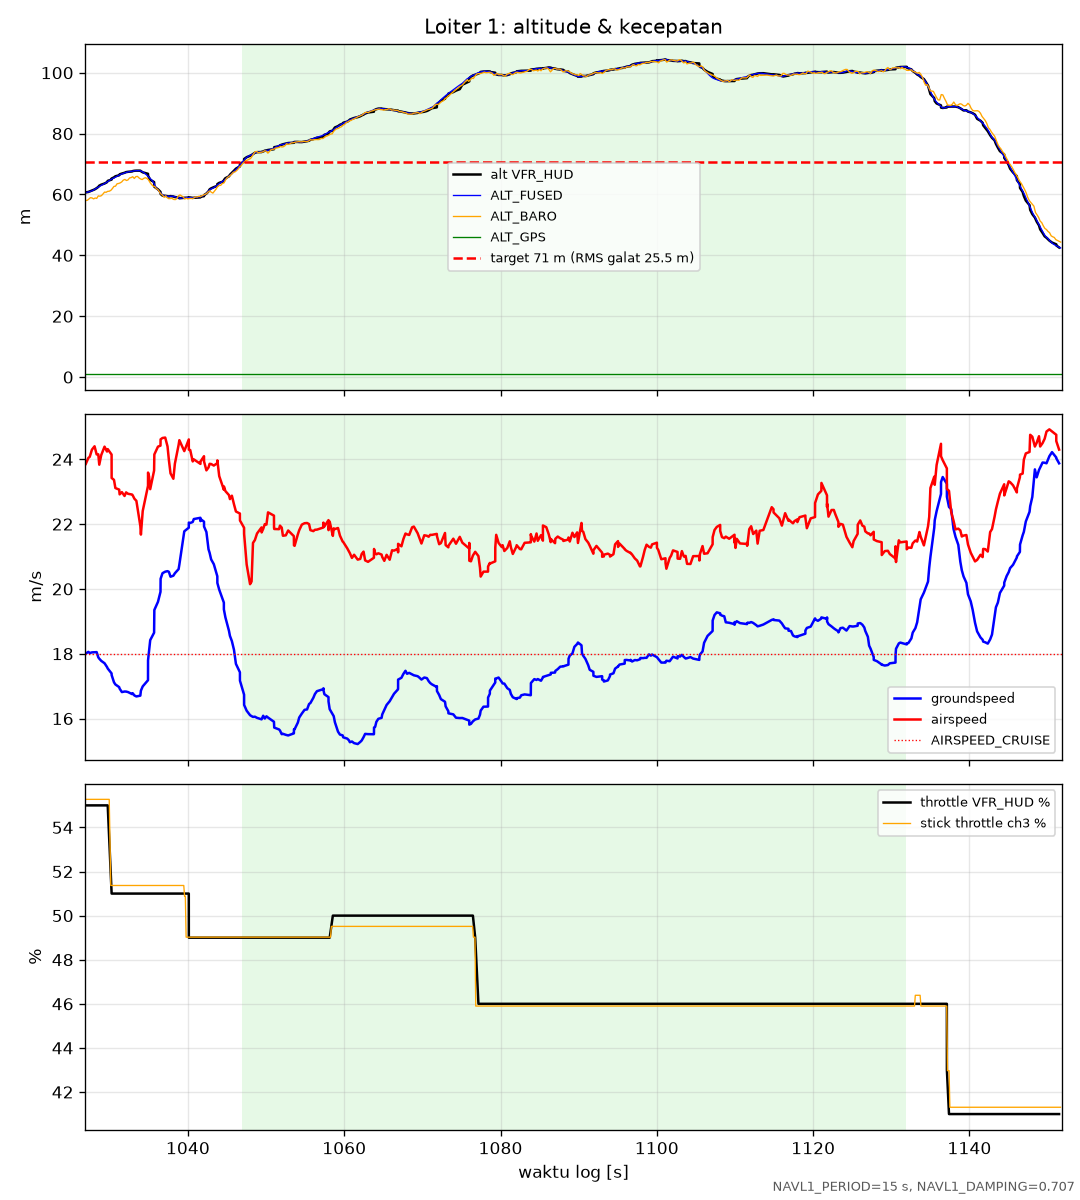
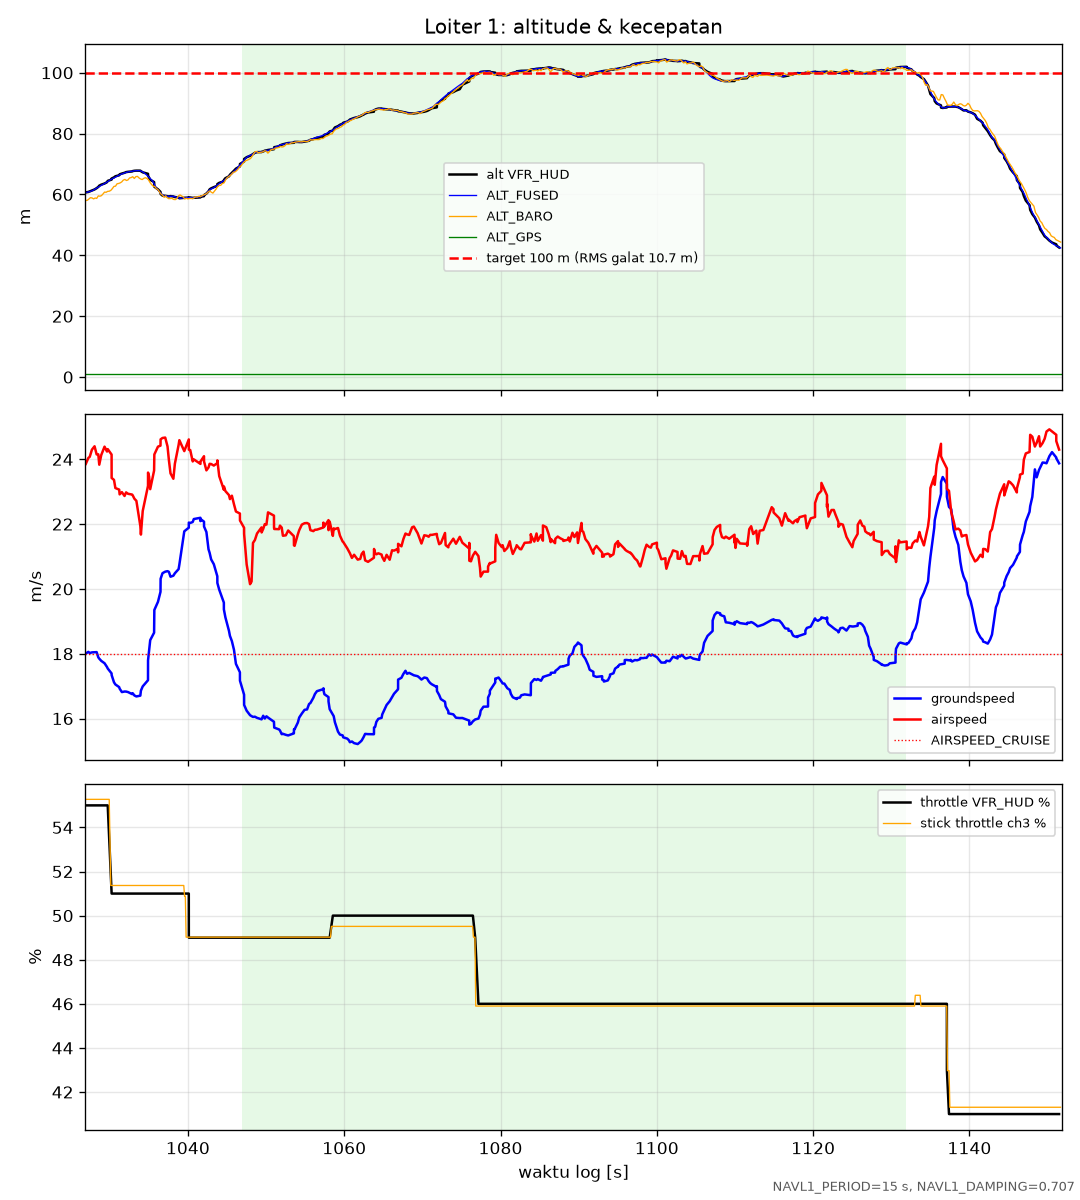
perbaikan script analisis tlog: param terakhir, loiter terputus, target alt item misi
- NAVL1_PERIOD/DAMPING dan WP_RADIUS diambil dari nilai terakhir (PARAM_SET di tengah log)
- jeda LOIT_* tanpa pergantian mode (link telemetri putus) tidak lagi memecah segmen loiter
- target altitude loiter item misi = altitude WP (LOIT_ALT hanya untuk mode LOITER)
- analisis AUTO tidak crash bila AUTO langsung ke item loiter tanpa leg

Changed region(s): [[0.3972, 0.1233, 0.55, 0.2158], [0.6417, 0.1233, 0.6722, 0.2158], [0.5806, 0.185, 0.6111, 0.2158]]

diff --git a/tools/flight_analysis/analyze_tlog_loiter.py b/tools/flight_analysis/analyze_tlog_loiter.py
@@ -45,7 +45,7 @@ import matplotlib.pyplot as plt
 import numpy as np
 
 import analyze_tlog_l1_auto
-from analyze_tlog_l1_auto import MODE_COLOR, fc_time, l1_note, load, mode_intervals, save_fig, series
+from analyze_tlog_l1_auto import MODE_COLOR, fc_time, l1_note, last_param, load, mode_intervals, save_fig, series
 
 R2D = 180.0 / np.pi
 G = 9.80665
@@ -66,14 +66,6 @@ def named_series(D, name, t0):
     t = fc_time(rows, t0)
     o = np.argsort(t, kind="stable")
     return t[o], np.array([d["value"] for d in rows])[o]
-
-
-def last_param(D, names, default=np.nan):
-    v = default
-    for p in D["PARAM_VALUE"]:
-        if p["param_id"] in names:
-            v = p["param_value"]
-    return v
 
 
 def shade_iv(ax, iv, labels=False):
@@ -201,7 +193,10 @@ def main():
     # ================================================================ segmen loiter
     segs = []  # dict(a, b, cx, cy, R(t-fn), dir, sumber)
     if len(tl):
-        cuts = [0] + list(np.where(np.diff(tl) > GAP_S)[0] + 1) + [len(tl)]
+        # jeda tanpa pergantian mode/arm = telemetri putus (link hilang), bukan loiter baru
+        bounds = np.array([x for x, y, n, arm in iv_raw])
+        cuts = [0] + [i + 1 for i in np.where(np.diff(tl) > GAP_S)[0]
+                      if ((bounds > tl[i]) & (bounds <= tl[i + 1])).any()] + [len(tl)]
         k = min(len(tN), len(tE))
         for a_i, b_i in zip(cuts[:-1], cuts[1:]):
             if b_i - a_i < 5:
@@ -352,12 +347,15 @@ def main():
         tgt_alt = P["loit_alt"] if np.isfinite(P["loit_alt"]) and P["loit_alt"] > 0 else float(alt[mv][0]) if mv.any() else np.nan
         wp_now = int(np.interp(a, tm, mseq)) if len(tm) else -1
         # item TERAKHIR yang tercatat untuk seq ini (misi bisa di-upload ulang)
-        cands = sorted(((d["_t"], d["command"]) for typ in ("MISSION_ITEM_INT", "MISSION_ITEM")
+        cands = sorted(((d["_t"], d["command"], d["z"]) for typ in ("MISSION_ITEM_INT", "MISSION_ITEM")
                         for d in D.get(typ, []) if d["seq"] == wp_now and d["_t"] - t0 <= a), key=lambda x: x[0])
         cmd_now = cands[-1][1] if cands else None
         loiter_cmds = {17: "LOITER_UNLIM", 18: "LOITER_TURNS", 19: "LOITER_TIME"}
         if cmd_now in loiter_cmds and s["sumber"].startswith("LOIT_*"):
             s["sumber"] = "LOIT_* (item misi WP%d %s di AUTO)" % (wp_now, loiter_cmds[cmd_now])
+            # loiter item misi: target = altitude item (LOIT_ALT hanya untuk mode LOITER),
+            # bukan altitude saat masuk loiter
+            tgt_alt = float(cands[-1][2])
         summary.append(dict(
             segmen=si + 1, sumber=s["sumber"],
             wp_aktif=wp_now,

diff --git a/tools/flight_analysis/analyze_tlog_l1_auto.py b/tools/flight_analysis/analyze_tlog_l1_auto.py
@@ -157,6 +157,15 @@ def dist_to_polyline(px, py, xs, ys):
     return best
 
 
+def last_param(D, names, default=np.nan):
+    # nilai TERAKHIR: param bisa diubah lewat PARAM_SET di tengah log
+    v = default
+    for p in D["PARAM_VALUE"]:
+        if p["param_id"] in names:
+            v = p["param_value"]
+    return v
+
+
 def l1_note(period, damp):
     return "NAVL1_PERIOD=%g s, NAVL1_DAMPING=%.3f" % (period, damp)
 
@@ -253,7 +262,7 @@ def main():
             flights[-1][1] = b
 
     global WP_RADIUS_M, NAV_ROLL_LIMIT
-    WP_RADIUS_M = next((p["param_value"] for p in D["PARAM_VALUE"] if p["param_id"] == "WP_RADIUS"), WP_RADIUS_M)
+    WP_RADIUS_M = last_param(D, ("WP_RADIUS",), WP_RADIUS_M)
     # nilai TERAKHIR (param bisa diubah saat terbang)
     for p in D["PARAM_VALUE"]:
         if p["param_id"] == "ROLL_LIMIT_DEG":
@@ -311,8 +320,8 @@ def main():
 
     # nama lama (L1_*) untuk log sebelum 2026-10-18, nama ArduPlane (NAVL1_*) sesudahnya
     global L1_NOTE
-    l1_period = next((p["param_value"] for p in D["PARAM_VALUE"] if p["param_id"] in ("NAVL1_PERIOD", "L1_PERIOD")), 22.0)
-    l1_damp = next((p["param_value"] for p in D["PARAM_VALUE"] if p["param_id"] in ("NAVL1_DAMPING", "L1_DAMPING")), 0.707)
+    l1_period = last_param(D, ("NAVL1_PERIOD", "L1_PERIOD"), 22.0)
+    l1_damp = last_param(D, ("NAVL1_DAMPING", "L1_DAMPING"), 0.707)
     L1_NOTE = l1_note(l1_period, l1_damp)
 
     plot_loiter(out, named, loiters, ta, roll, tn, nav_roll)
@@ -416,6 +425,10 @@ def main():
             ))
         flight_samples.append(np.array([s[2:] for s in samp]) if samp else np.zeros((0, 8)))
         rows += samp
+
+    if not legs:
+        print("Tidak ada leg AUTO antar-WP (AUTO langsung ke item loiter?); analisis AUTO dilewati.")
+        return
 
     with open(os.path.join(out, "cte_per_sampel.csv"), "w", newline="") as f:
         w = csv.writer(f)
